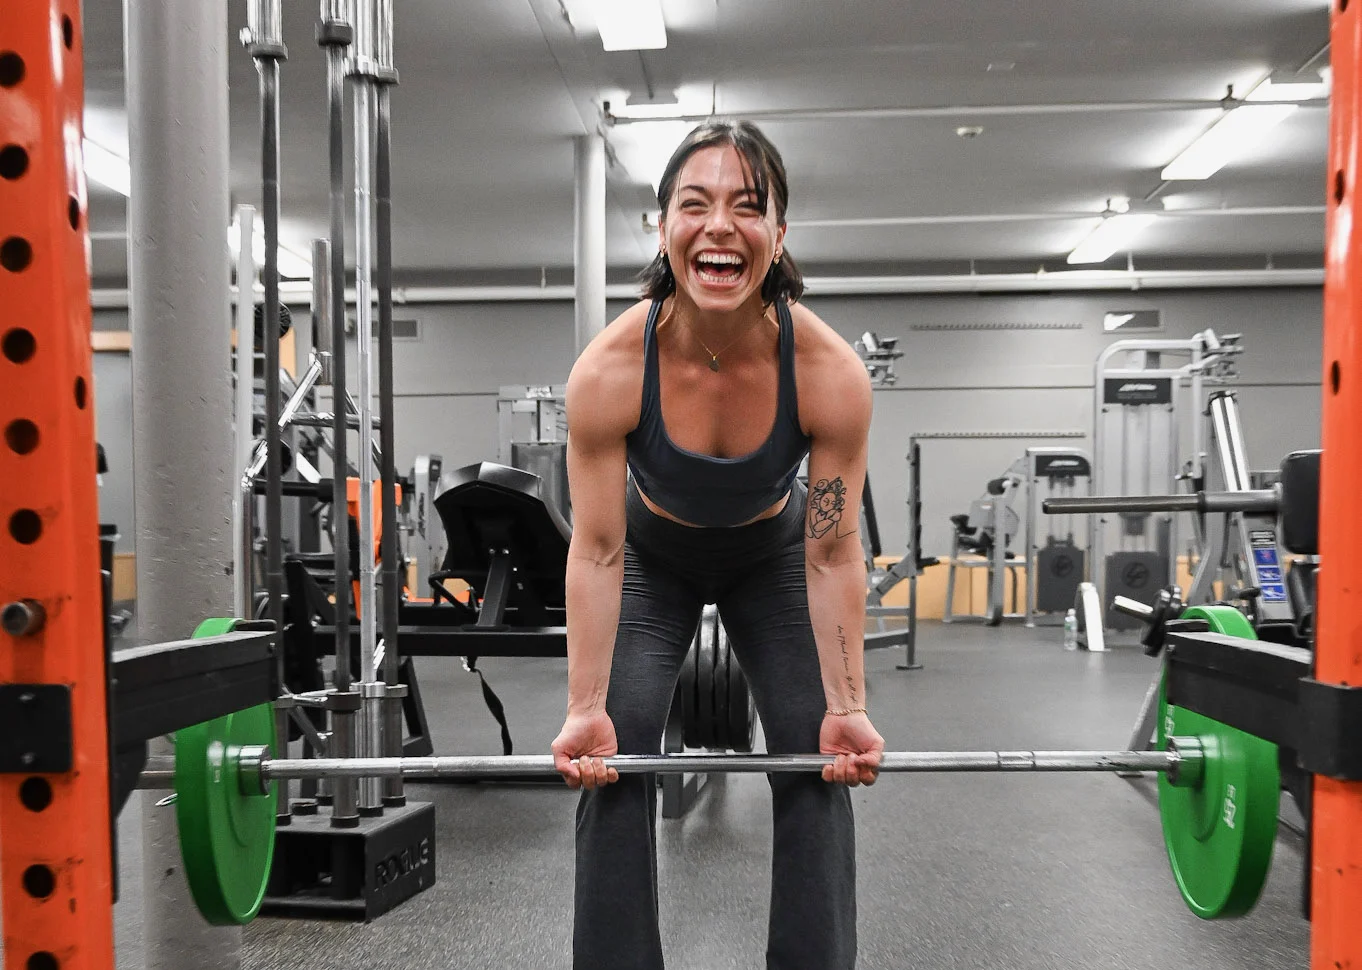
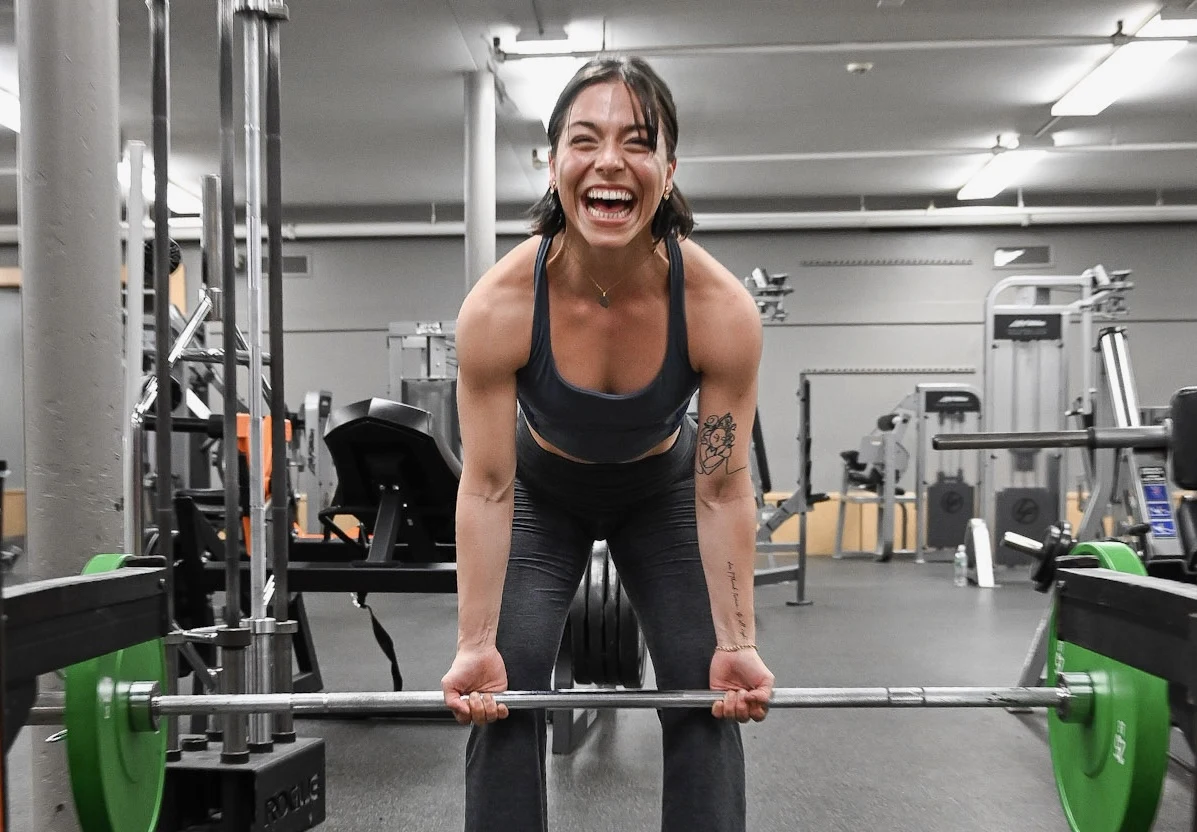
Use Andy's crop of the welcome deadlift photo
Claude-Session: https://claude.ai/code/session_01Q463UtAdGB1yJWTe3w4Wz1

diff --git a/index.html b/index.html
@@ -471,7 +471,7 @@ footer.site ul{list-style:none;padding:0;margin:0;display:grid;gap:.4rem}
     <p class="preview-note">By Izzy Bisceglia · Also published on <a href="https://izzyinmotion.substack.com" target="_blank" rel="noopener">Substack</a></p>
   </div>
   <div class="wrap" style="max-width:860px;display:grid;gap:2.5rem;padding-bottom:3rem">
-    <figure class="ph photo" style="aspect-ratio:1362/970"><img src="img/deadlift.webp" alt="Izzy laughing mid-deadlift in the squat rack at Best Fitness" loading="lazy"></figure>
+    <figure class="ph photo" style="aspect-ratio:1197/832"><img src="img/deadlift.webp" alt="Izzy laughing mid-deadlift in the squat rack at Best Fitness" loading="lazy"></figure>
     <div class="prose" id="welcomeBody"></div>
     <div class="newsletter"><div class="inner">
       <h3>Get the next one in your inbox</h3>
